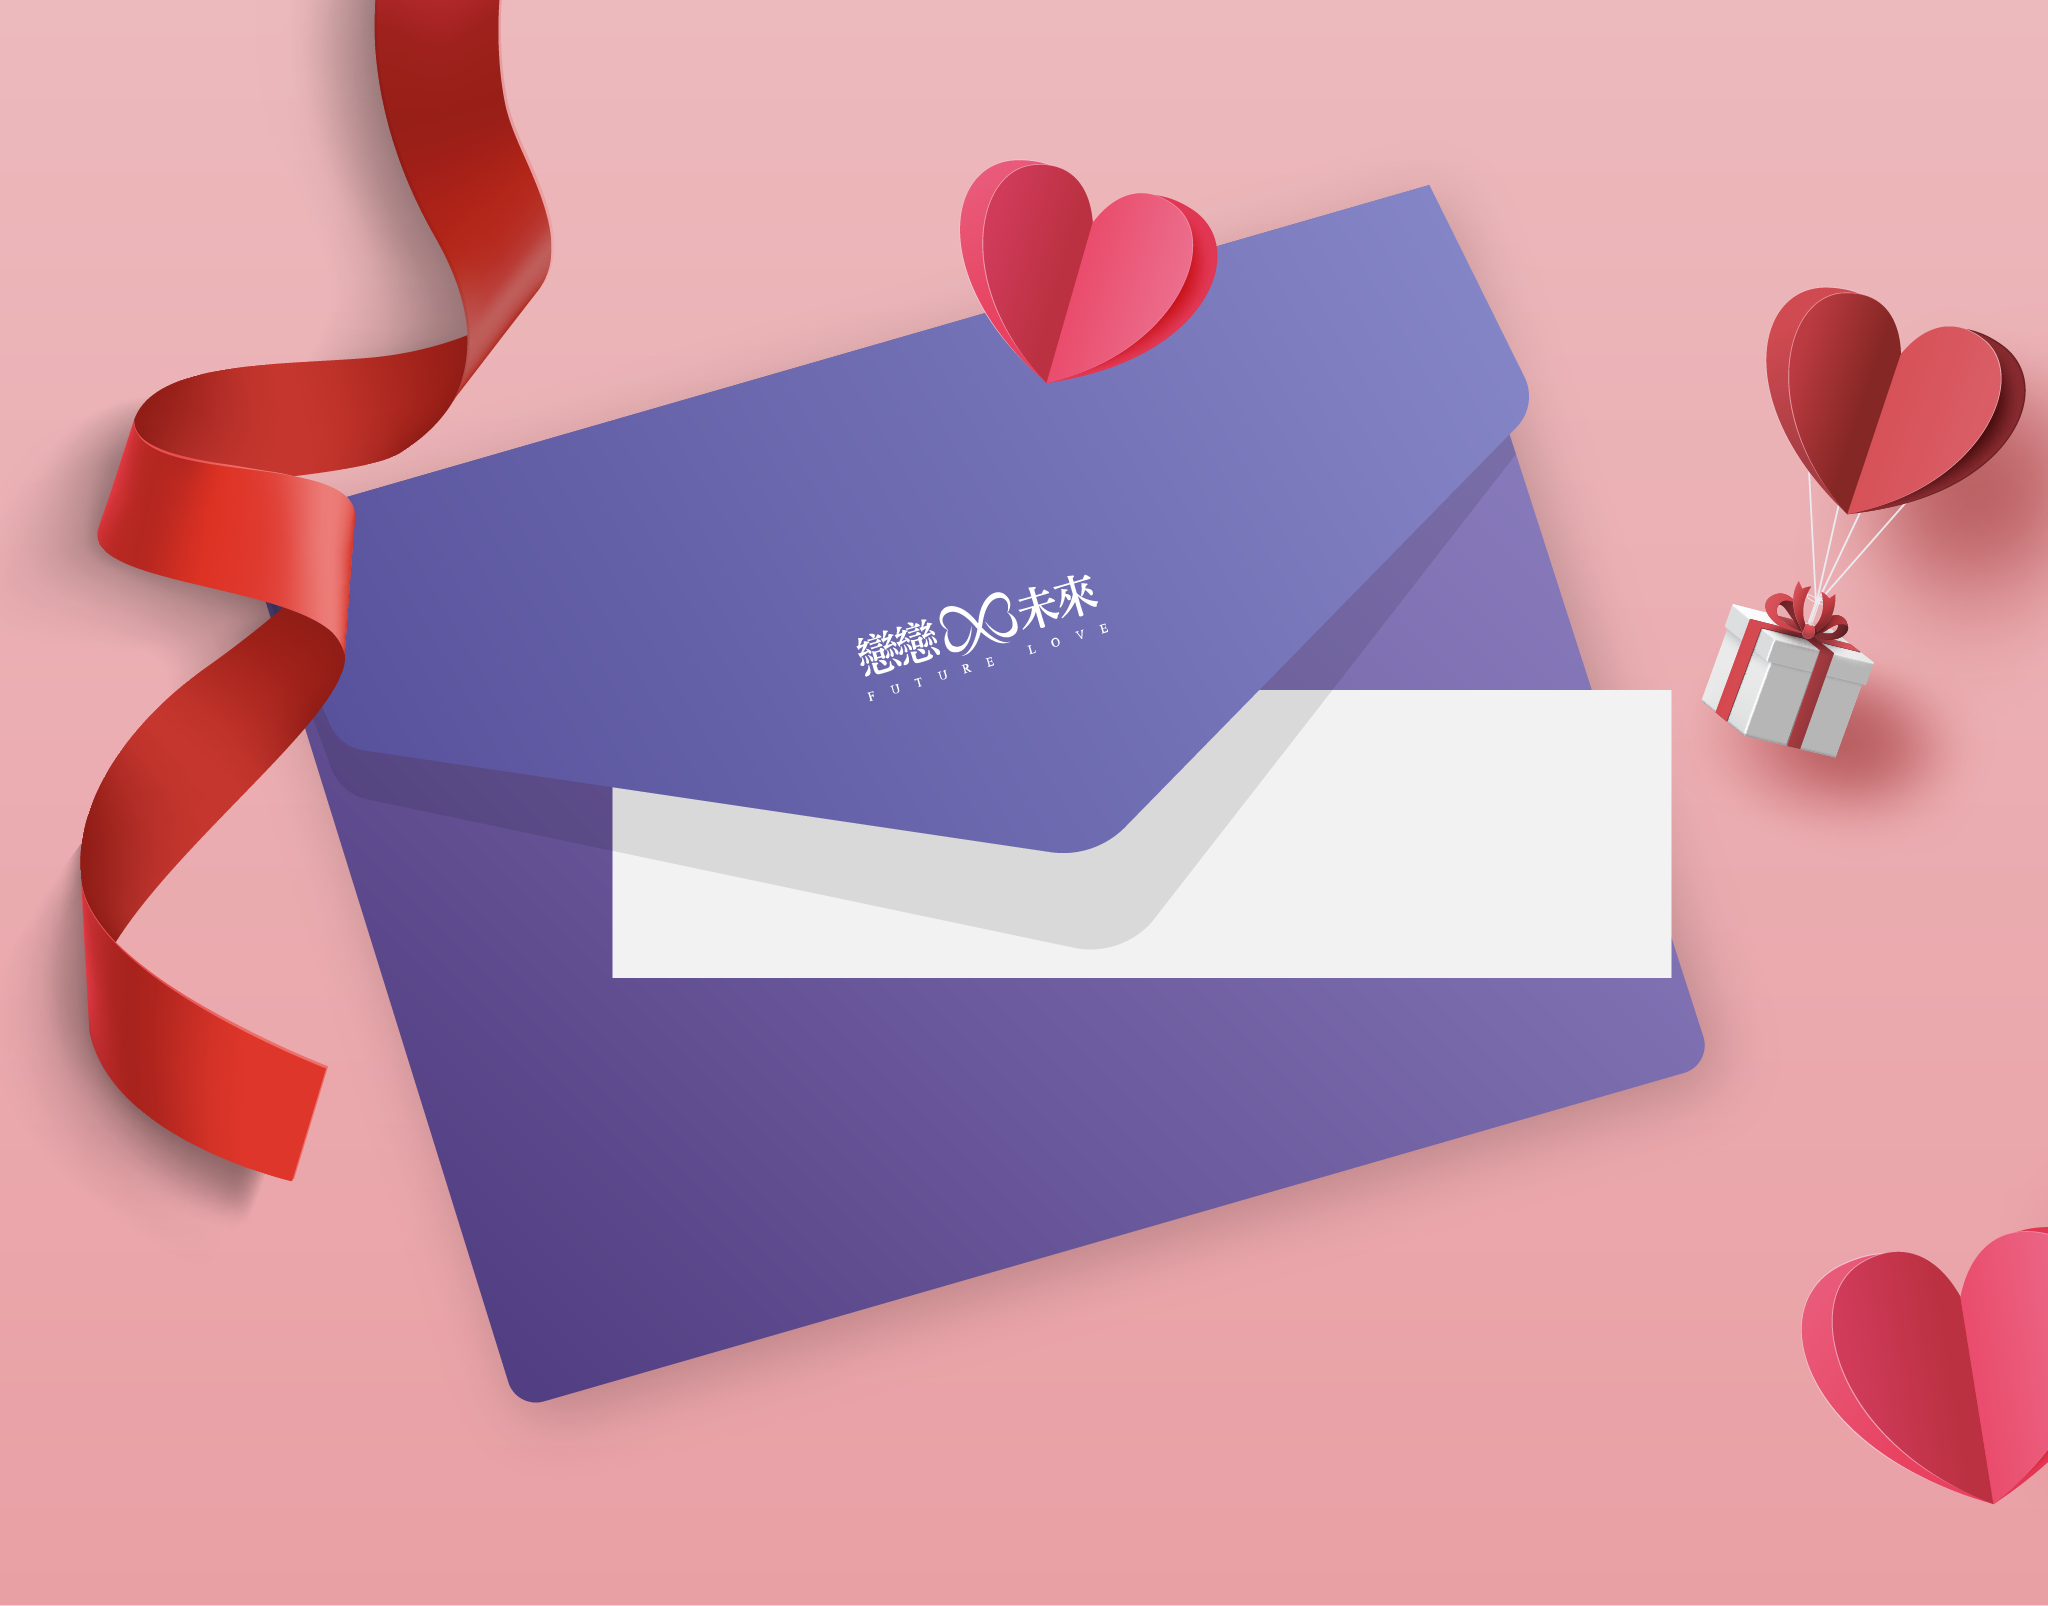
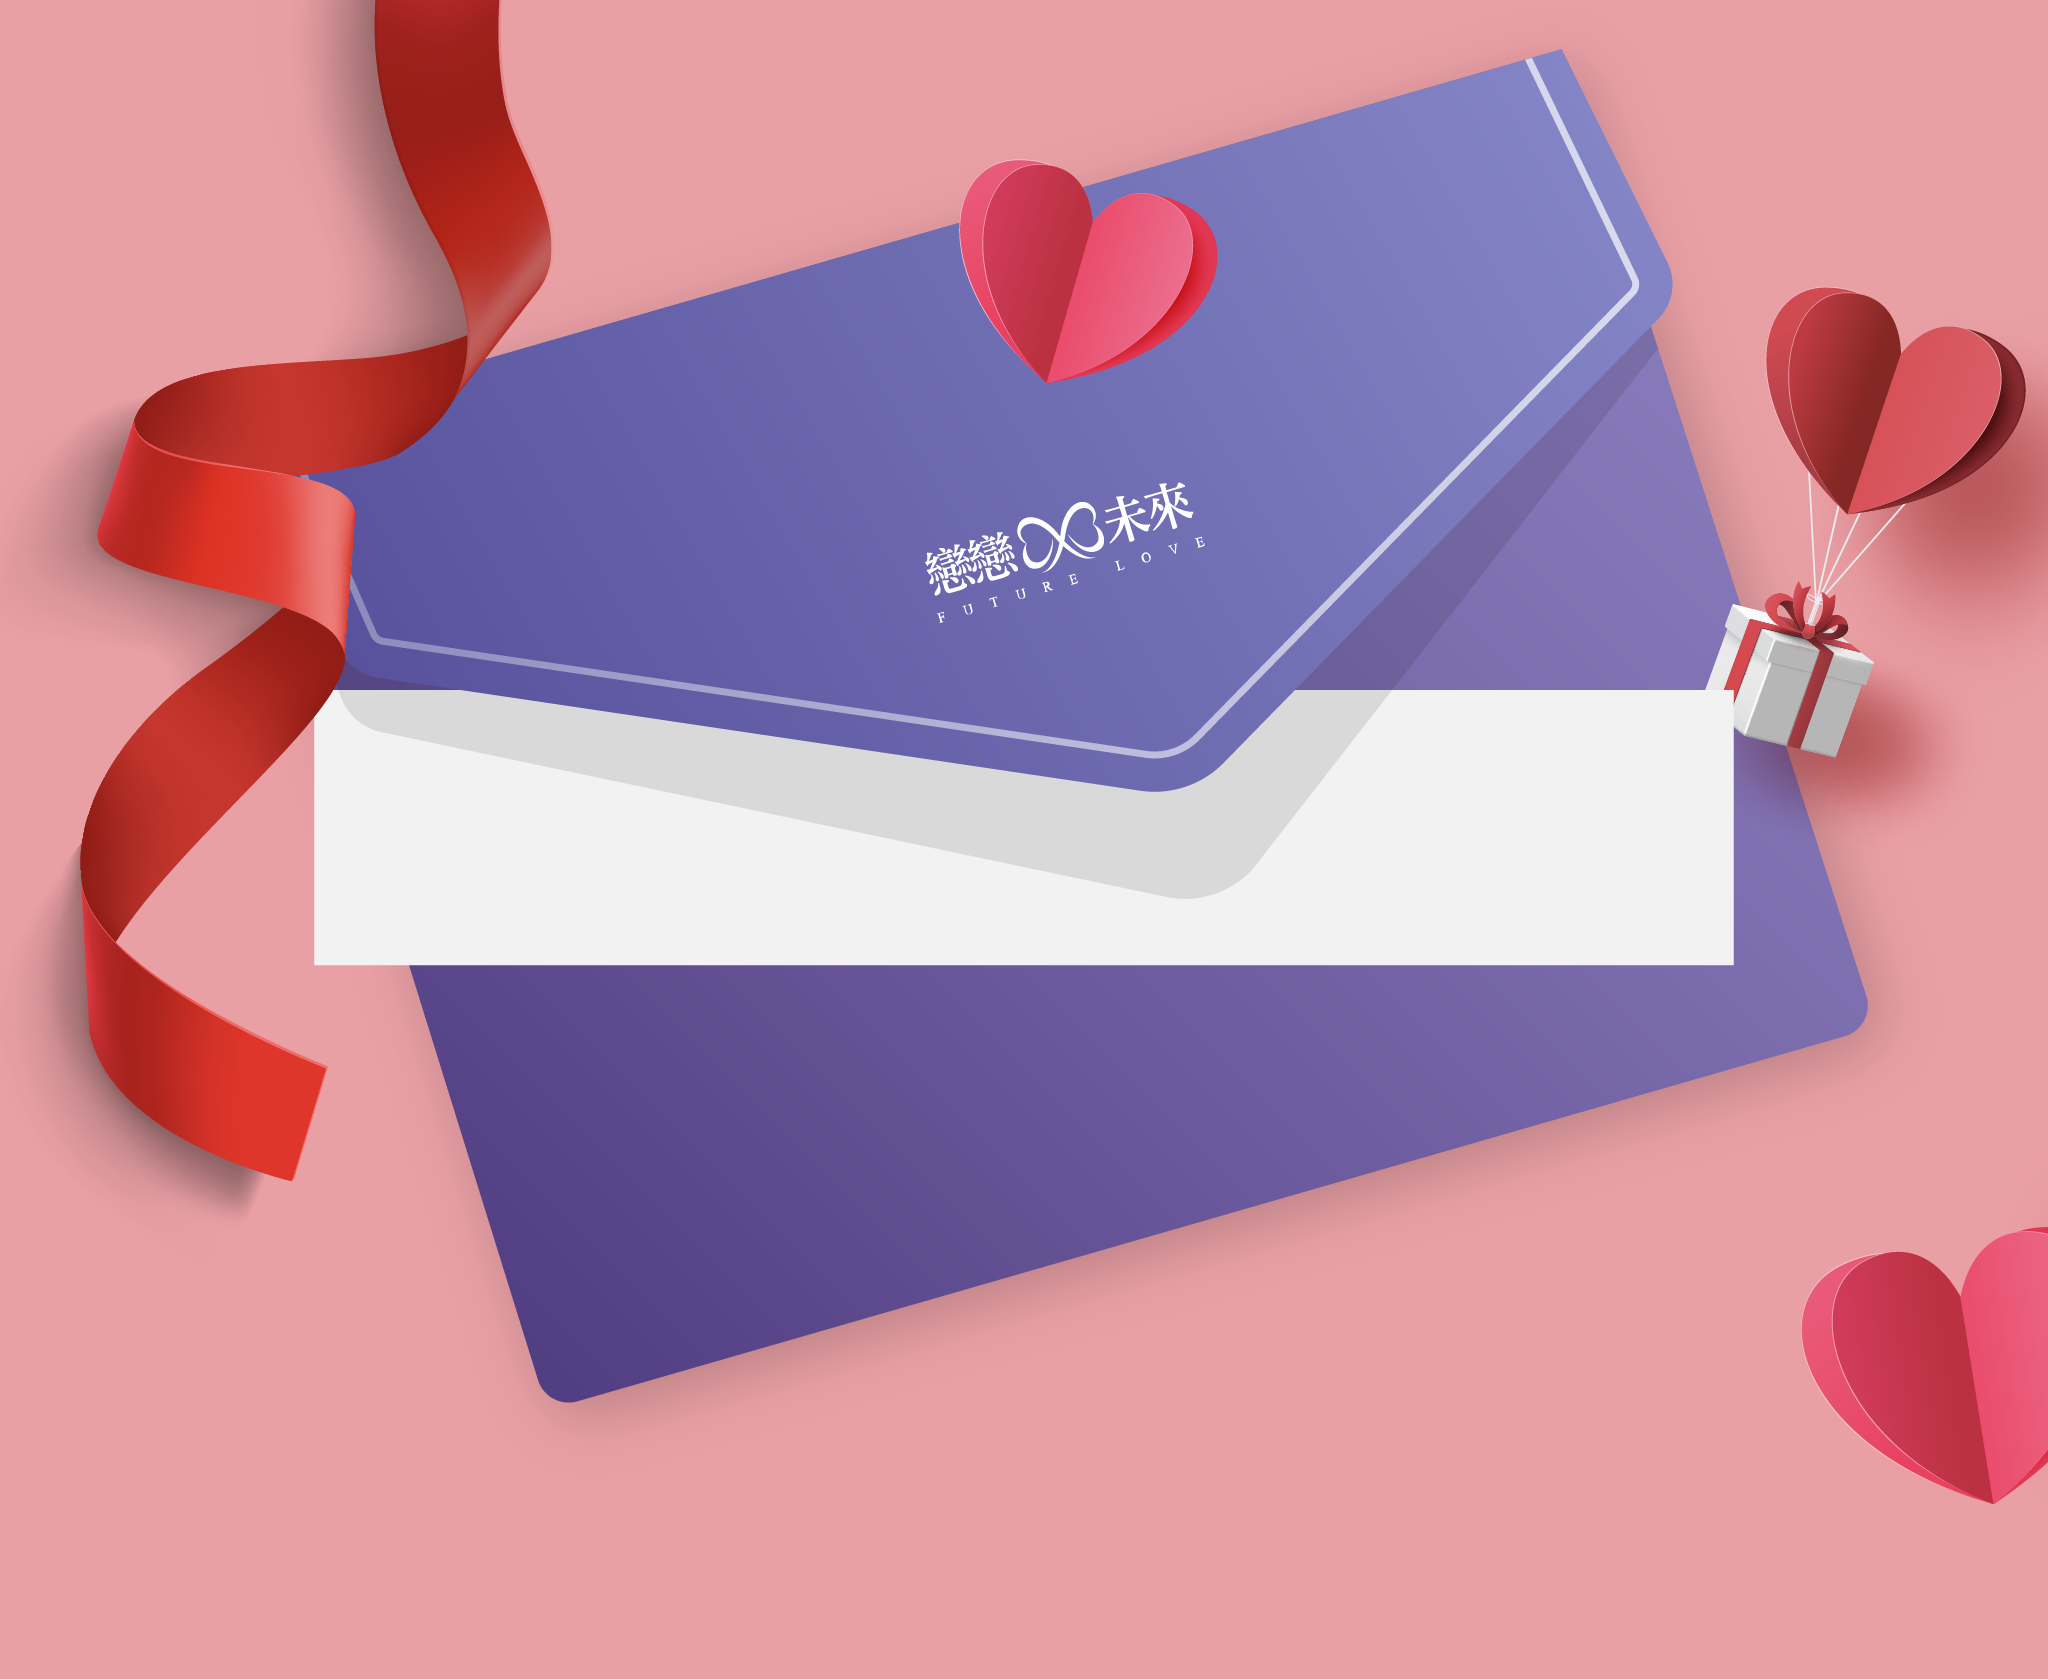
改比例

diff --git a/index.html b/index.html
@@ -7,10 +7,25 @@
     <title>Document</title>
 </head>
 <body style="box-sizing: border-box; margin: 0; background-color: #E9A0A5;">
-    <div style="position: relative;box-sizing: border-box;padding-top: 47%; padding-left: 29.9%; padding-bottom: 15%; background-image: url(./img/bg-1.png);background-position: 0 0; background-size: 100%; background-repeat: no-repeat;">
+    <div style="position: relative;box-sizing: border-box;padding-top: 47%; padding-bottom: 15%; background-image: url(./img/bg-1.png);background-position: 0 0; background-size: 100%; background-repeat: no-repeat;">
         <!-- <img style="width: 100%;" src="./img/bg-1.png" alt=""> -->
-        <div style="width: 73.8%; background-color: #F2F2F2; padding:0 30px 40px; box-sizing: border-box;">
+        <div style="width: 69.3%; background-color: #F2F2F2; padding:0 5% 40px; box-sizing: border-box; margin: 0 auto;">
             <p style="margin: 0 0 40px; color: #353535;">
+                寶兒您好，<br>
+                <br>
+                Line速配會員”huroter”已於2023-06-08 14:05邀約您交換Line聊！！<br>
+                <br>
+                邀約查詢：請至練練未來官網，登入會員。於”會員專區 管理”點選”約會管理”回覆邀約。<br>
+                寶兒您好，<br>
+                <br>
+                Line速配會員”huroter”已於2023-06-08 14:05邀約您交換Line聊！！<br>
+                <br>
+                邀約查詢：請至練練未來官網，登入會員。於”會員專區 管理”點選”約會管理”回覆邀約。<br>
+                寶兒您好，<br>
+                <br>
+                Line速配會員”huroter”已於2023-06-08 14:05邀約您交換Line聊！！<br>
+                <br>
+                邀約查詢：請至練練未來官網，登入會員。於”會員專區 管理”點選”約會管理”回覆邀約。<br>
                 寶兒您好，<br>
                 <br>
                 Line速配會員”huroter”已於2023-06-08 14:05邀約您交換Line聊！！<br>
